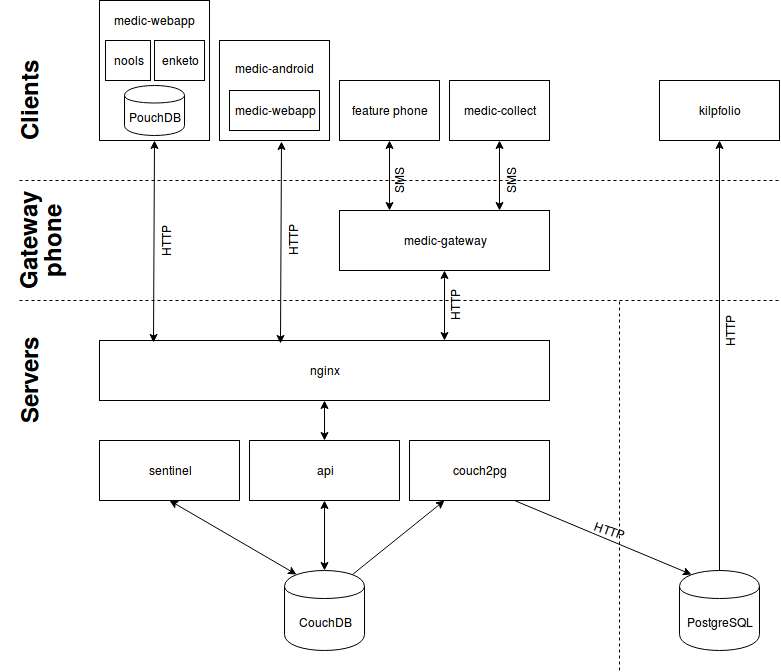
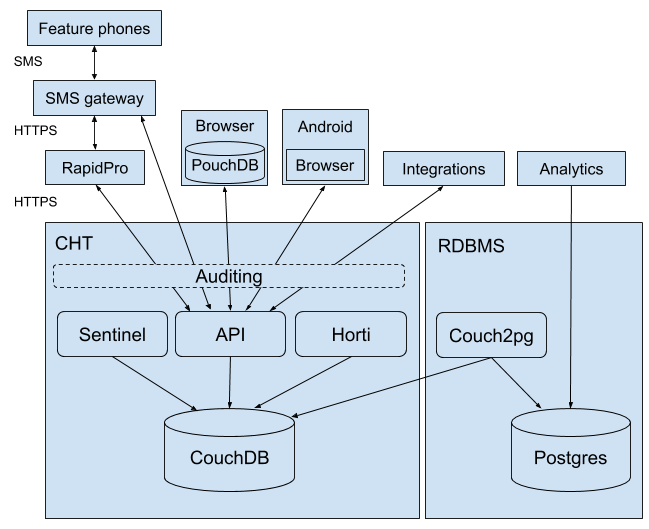
Updated core architecture

diff --git a/content/en/core/overview/architecture.md b/content/en/core/overview/architecture.md
@@ -28,10 +28,6 @@ Another NodeJS service running on the server, sentinel performs actions called t
 
 A free and open source SQL database that we use for analytics queries for display in tools like klipfolio. We created a library called [couch2pg](https://github.com/medic/couch2pg) to replicate data from CouchDB into PostgreSQL.
 
-### [nginx](http://nginx.org)
-
-nginx proxies all requests to api and adds encryption and compression.
-
 ## Client side
 
 ### [cht-core](https://github.com/medic/cht-core)
@@ -61,11 +57,3 @@ An android app based on [Open Data Kit](https://opendatakit.org) to render xform
 ### [medic-conf](https://github.com/medic/medic-conf)
 
 A command line utility for uploading configuration and bulk importing of records.
-
-### SimApp
-
-A SimApp is a thin chip inserted under the SIM card and can be used to provide a menu for sending reports over SMS on feature phones. See [Tools for Basic Phones](http://medicmobile.org/tools).
-
-### [medic-reporter](https://github.com/medic/medic-reporter)
-
-A helper tool for sending reports directly to api for testing report submission without having to send an SMS through the gateway.
